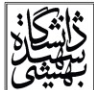
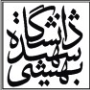
picture updates

diff --git a/index.html b/index.html
@@ -184,7 +184,7 @@
         Bachelors of Science in Electrical & Computer Engineering (2017)
       </div>
     </div>
-  <img src="Masters.jpeg" alt="Masters License Framed" style="max-width: 500px; width: 90%; border-radius: 10px; box-shadow: 0 0 10px rgba(0,0,0,0.1); margin-top: 1rem;" />
+  <img src="Masters.png" alt="Masters License Framed" style="max-width: 500px; width: 90%; border-radius: 10px; box-shadow: 0 0 10px rgba(0,0,0,0.1); margin-top: 1rem;" />
   <div class="section">
   <h2>TeslaFSDKiller: Deep Learning Project</h2>
   <p style="max-width: 700px; margin: 0 auto;">
@@ -240,7 +240,7 @@
   </ul>
 
 <div style="display: flex; justify-content: center; flex-wrap: wrap; gap: 1rem; margin-top: 1rem;">
-  <img src="pe.jpeg" alt="PE License" style="max-width: 600px; width: 100%; border-radius: 10px;" />
+  <img src="pe.png" alt="PE License" style="max-width: 600px; width: 100%; border-radius: 10px;" />
   <img src="NERC.png" alt="NERC Cert" style="max-width: 600px; width: 100%; border-radius: 10px;" />
 </div>
 
